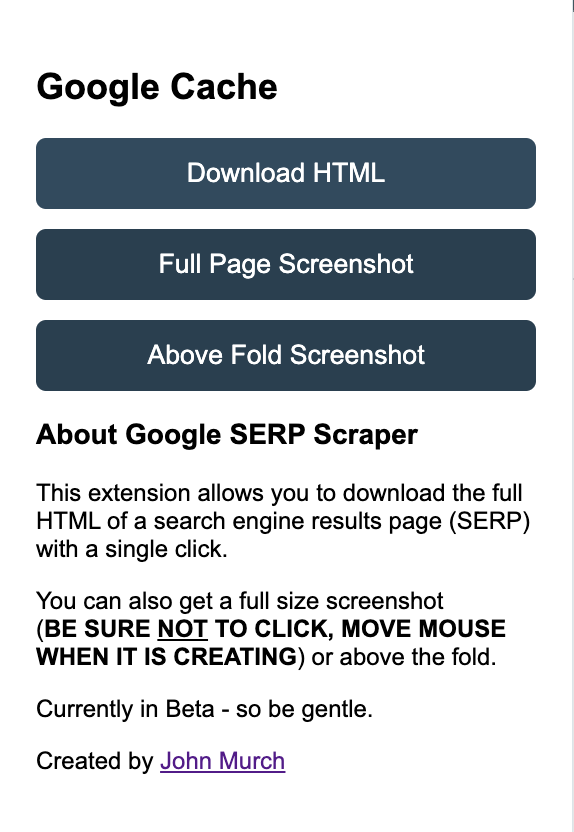
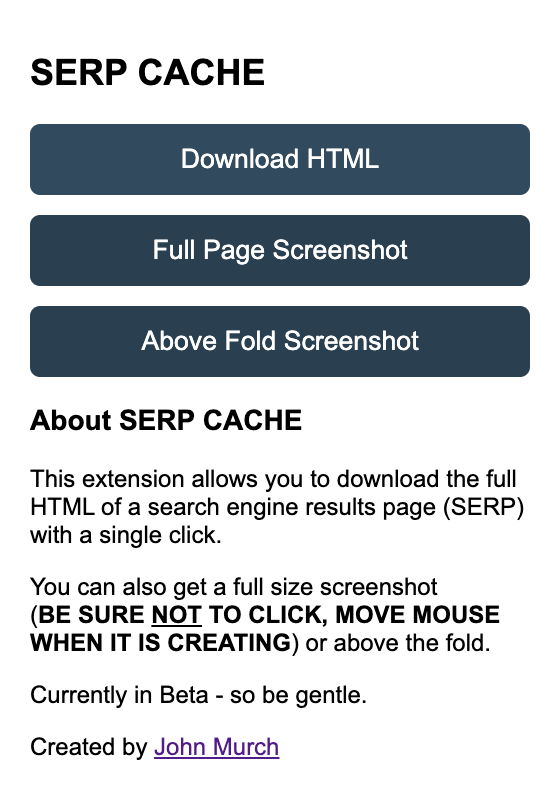
update screenshot

diff --git a/popup.html b/popup.html
@@ -39,7 +39,7 @@
   </head>
   <body>
     <div id="main">
-      <h2>Google Cache</h2>
+      <h2>SERP CACHE</h2>
       <button id="downloadHtml" class="download">Download HTML</button>
       <button id="fullPageScreenshot" class="screenshot">
         Full Page Screenshot
@@ -50,7 +50,7 @@
     </div>
 
     <div id="about">
-      <h3>About Google SERP Scraper</h3>
+      <h3>About SERP CACHE</h3>
       <p>
         This extension allows you to download the full HTML of a search engine
         results page (SERP) with a single click.
